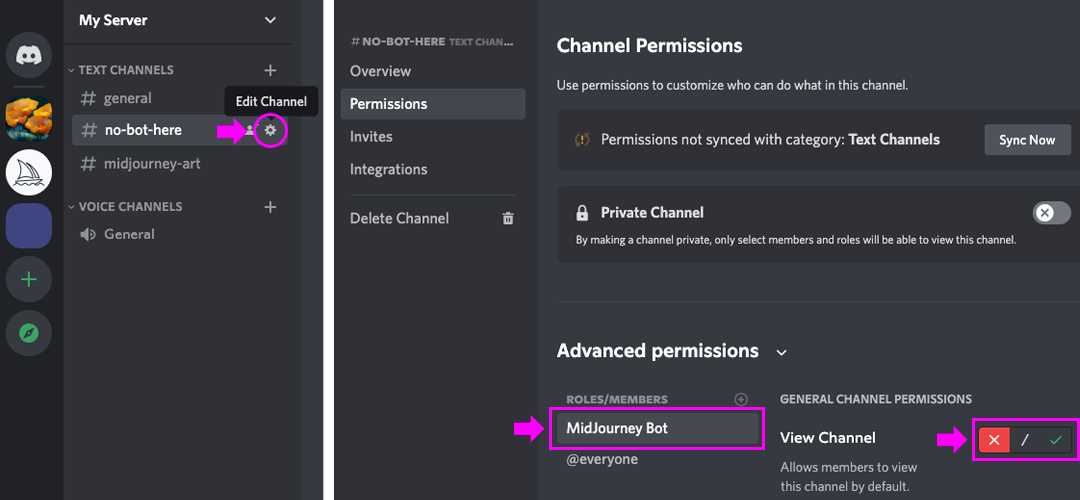
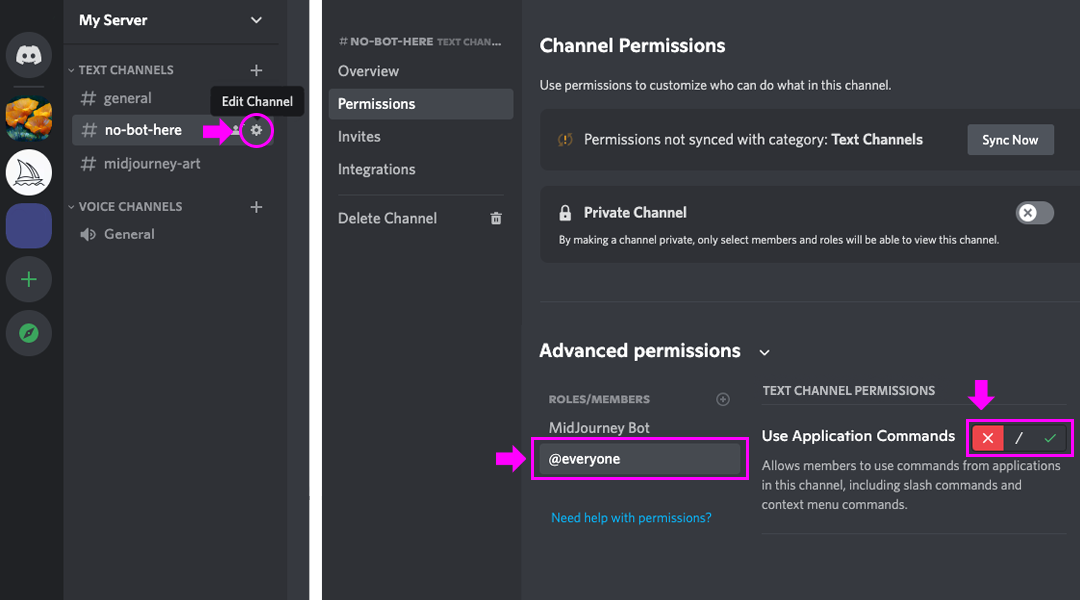
GitBook: [#53] Added additional images to "multi server" page requested by Red, simplified getting started page.

diff --git a/README.md b/README.md
@@ -4,23 +4,6 @@ Midjourney is an independent research lab exploring new mediums of thought and e
 
 There are two ways to experience the tools: the Discord server ([https://discord.gg/midjourney](https://discord.gg/midjourney)), where you will generate images, and the web app at [https://www.midjourney.com/](https://www.midjourney.com/app/), where you can find a gallery of your own work and other users' creations.
 
-1. The Discord server at&#x20;
-2. The web app at&#x20;
-
-Table of Contents:
-
-* [Code of Conduct](./#code-of-conduct)
-* [Create your First Image](./#create-your-first-image)
-  * [1. Select one of the `#newbies` channels from the sidebar](./#1.-select-one-of-the-newbies-channels-from-the-sidebar)
-  * [2. Use the /imagine Command](./#2.-use-the-imagine-command)
-  * [3. Wait as the MidJourney Bot Processes Your Request](./#3.-wait-as-the-midjourney-bot-processes-your-request)
-  * [4. Upscale your Image or Create Variations](./#4.-upscale-your-image-or-create-variations)&#x20;
-  * [5. Save Your Image](./#5.-save-your-image)
-  * [6. Send Results to Your DMs (Direct Messages)](./#6.-send-results-to-your-dms-direct-messages)
-  * [7. Become a Paid Subscriber if you Want to Generate More](./#7.-become-a-paid-subscriber-if-you-want-to-generate-more)
-  * [8. As a Subscriber, DM the Bot If You Want Less Noise Around](./#8.-as-a-subscriber-dm-the-bot-if-you-want-less-noise-around)
-* [Any Questions?](./#any-questions)
-
 ## Code of Conduct
 
 * Don't be a jerk.
@@ -43,7 +26,7 @@ Once you have joined the Discord server you will be able to create a limited num
 
 ### 2. Use the /imagine Command
 
-To use the MidJourney Bot, use a [Discord Slash Command](https://support.discord.com/hc/en-us/articles/1500000368501-Slash-Commands-FAQ) in a Bot channel, like #newbies-1. Start typing `/imagine` and you will notice something pop up above your text.&#x20;
+To use the Midjourney Bot, use a [Discord Slash Command](https://support.discord.com/hc/en-us/articles/1500000368501-Slash-Commands-FAQ) in a Bot channel, like #newbies-1. Start typing `/imagine` and you will notice something pop up above your text.&#x20;
 
 **Click or tap on the `/imagine` option**: the `prompt` field will be created and now you can add whatever you want the bot to generate, as you can see in the video below. Make sure to respect our [Content and Moderation policy](content-and-moderation-policy.md): keep it PG-13 and avoid upsetting imagery.
 
@@ -51,13 +34,13 @@ To use the MidJourney Bot, use a [Discord Slash Command](https://support.discord
 
 You can also try to press the Spacebar, Tab, or Enter to create the `prompt` field. Bot slash commands will only work in Bot channels. Typing `/imagine` will not work in regular channels, such as `#trial-support`.
 
-Once you're satisfied with the prompt you just wrote, press Enter or send your message. That will deliver your request to the MidJourney Bot, which will soon start generating your images.
+Once you're satisfied with the prompt you just wrote, press Enter or send your message. That will deliver your request to the Midjourney Bot, which will soon start generating your images.
 
-### 3. Wait as the MidJourney Bot Processes Your Request
+### 3. Wait as the Midjourney Bot Processes Your Request
 
 Requests take a minute to generate four options based on your prompt.
 
-![What you see while MidJourney generates your prompt](https://user-images.githubusercontent.com/105028755/167756032-0059cb74-d437-4747-8778-902c03403be6.gif)
+![What you see while Midjourney generates your prompt](https://user-images.githubusercontent.com/105028755/167756032-0059cb74-d437-4747-8778-902c03403be6.gif)
 
 ### 4. Upscale Your Image or Create Variations
 
@@ -90,31 +73,29 @@ Your upscaled image (and 2x2 grid images) will immediately be visible on your we
 
 ### 6. Send Results to Your DMs (Direct Messages)
 
-You can ask the MidJourney Bot to send you a Discord direct message containing your final results. To do so, react with the envelope emoji (:envelope:) to one of the bot's messages that contains a finished generation. This works with both single upscaled images and 2x2 grids, as shown below.
+You can ask the Midjourney Bot to send you a Discord direct message containing your final results. To do so, react with the envelope emoji (:envelope:) to one of the bot's messages that contains a finished generation. This works with both single upscaled images and 2x2 grids, as shown below.
 
 ![Here we add the  emoji to the generation we want to receive as a Direct Message](https://user-images.githubusercontent.com/105028755/168405903-4a039b6e-230b-4ff6-bbba-d9f732c7fb86.gif)
 
 ### 7. Become a Paid Subscriber if you Want to Generate More
 
-Your 25 free jobs do not presently expire but will also not renew. Once you have used all of them, you can use `/subscribe` in any bot channel to purchase a membership. Follow the link MidJourney generates to go to your subscription page.
+Your 25 free jobs do not presently expire but will also not renew. Once you have used all of them, you can use `/subscribe` in any bot channel to purchase a membership. Follow the link Midjourney generates to go to your subscription page.
 
 For prices and more information, you can visit [Billing and Licensing](billing.md).
 
-### 8. As a Subscriber, DM the Bot If You Want Less Noise Around
+### 8. As a Subscriber, Direct Message the Bot to work one-on-one with the Bot.
 
-If you are a paid subscriber, you can also use [the bot in your Direct Messages](FAQs.md#dming-the-bot-direct-messaging) instead of in a public bot channel. This will still be subject to content rules and generate images that will be visible in your gallery on the website.&#x20;
+If you are a paid subscriber, you can use [the bot in your Direct Messages](FAQs.md#dming-the-bot-direct-messaging) instead of public channel with other people. Images made within your direct messages are still be subject to content and moderation rules and will be visible on your midjourney website gallery.&#x20;
 
-## Any Questions?
+## Questions?
 
-If you still have questions or doubts, these pages can also be helpful:
+If you still have questions, these pages can also be helpful:
 
-* [The User Manual](user-manual.md), to learn how to unlock MidJourney's full potential.
+* [The User Manual](user-manual.md), for a full list of Midjourney features and commands.
 * [Resource Links](resource-links/), for tips, tricks, and experiments by our community of creatives.
-* [Copyright and Trademark](https://midjourney.gitbook.io/docs/terms-of-service#4.-copyright-and-trademark), to see what you are allowed to do with the images you generate. If you're a paid subscriber, they may be yours to do as you please, even commercially.
 
 Don't forget about our Discord server:
 
 * The `#rules` and `#faq` channels contain more information about our services.
 * In `#announcements` and `#status` you will find all important updates and news.
-* `#micro-polls` is where we ask about your preferences and experiences with our tools.
-* Still need help? Ask your question in either `#trial-support` or `#member-support`.&#x20;
+* Have additional questions? Visit `#trial-support` or `#member-support`.&#x20;

diff --git a/use-midjourney-on-your-own-discord-server.md b/use-midjourney-on-your-own-discord-server.md
@@ -9,8 +9,13 @@ description: How to invite and use the Midjourney bot on other servers.
 
 ## Invite the Midjourney Bot <a href="#step5" id="step5"></a>
 
-1. Select the Midjourney Bot, and then click "Add to Server": ![](.gitbook/assets/image.png)
-2. Select the server you want to add it to, then follow the directions in discord.&#x20;
+1. Select the **Midjourney Bo**t from the **User List**, and then click **"Add to Server"**:&#x20;
+
+![](.gitbook/assets/MJ\_BotInvite.png)
+
+
+
+1. Select the server you want to add it to, then follow the directions in discord.
 
 ![Authorize and confirm you are adding an external application.](.gitbook/assets/MJ\_AuthorizeBot.png)
 
@@ -18,10 +23,9 @@ If you don't see your server listed, follow the instructions in [#step5-1](use-m
 
 ## Use the Midjourney Bot
 
-Once the Midjourney Bot has joined your server you can begin interacting with it using the `/imagine` command.&#x20;
+Once the Midjourney Bot has joined your server you can begin interacting with it using the `/imagine` command.
 
-If this is your first time using Midjourney, refer to othe [Quick Start Guide](./) for help making your first images.\
-
+If this is your first time using Midjourney, refer to othe [Quick Start Guide](./) for help making your first images.
 
 ## Notes
 
@@ -39,15 +43,33 @@ To use the Midjourney Bot in any server users must have an active Midjourney tri
 
 ## Restrict the Bot to Specific Channels
 
-If you do not want the Midjourney Bot to be usable in specific channels go to **Edit Channel**, select the **Permissions tab**, select **@everyone** under **Roles/Members** and ** **_**Uncheck**_** "Use Application Commands".**
+If you do not want the Midjourney Bot to be usable in specific channels go to **Edit Channel**, select the **Permissions tab**, select **@everyone** under **Roles/Members** and  **\_Uncheck\_ "Use Application Commands"**.
 
-\
 Users who try to use the Midjourney Bot in a channel with these permissions disabled will not see the command
+
+![](.gitbook/assets/MJ\_RestrictChannel.png)
+
+
+
+For more granular control go to **Settings**, select **Integrations**, select the **Permissions tab**, select the **+ for the Midjourney Bot**, and select **Manage Integration.** \
+****\
+****/Command permissions can then be set for individual roles and channels.
+
+![](.gitbook/assets/MJ\_Integrations.png) ![](.gitbook/assets/image.png)
+
+****\
+**Get Midjourney Bot Status Updates and Announcements on Your Own Server**
+--------------------------------------------------------------------------
+
+Follow the **`#announcements`** and **`#status`** on your own server to stay up-to-date with Midjourney.
+
+![](.gitbook/assets/MJ\_StatusFollow.png)
 
 ## Create an Administrator Role <a href="#step5" id="step5"></a>
 
-**Only individuals with the "Manage server" permissions can add the Midjourney Bot to that server. If you do not see your server in the list, make sure you have this permission.**\
-****
+**Only individuals with the "Manage server" permissions can add the Midjourney Bot to that server. If you do not see your server in the list, make sure you have this permission.**\\
+
+***
 
 1. From your Discord Server's home page select the **Roles** tab in the **Server Settings** menu.
 

diff --git a/resource-links/understanding-image-size.md b/resource-links/understanding-image-size.md
@@ -93,7 +93,7 @@ An upscaled default square image at 1664x1664 has 2,768,896 pixels. Let's round 
 
 the --w and --h (width and height) modifiers only affect the initial 2x2 grid.  Adding --w 448 will make the initial 2x2 grid produce individual grid images are 448 pixels wide
 
-![/imagine sailboat --w 448  produces a 896 x 512 begining grid.](<../.gitbook/assets/image (29).png>)
+![/imagine sailboat --w 448  produces a 896 x 512 begining grid.](<../.gitbook/assets/image (1) (1) (1).png>)
 
 When you upscale one of these images it will no longer be 448 pixels wide, but it will maintain the original aspect ratio of your 2x2 grid.
 
@@ -119,7 +119,7 @@ If you have two bricks (pixels) that are very similar in color and try to double
 
 The issue with upscaling an image happens when lots of guesses have to be made about what new information is added (you want an image 4 or 6 times larger than the original). Recent AI advancements in upscale technology are really good, but the more guesses you ask the program to make the more errors will be made and the worse the result. &#x20;
 
-![Harder to guess what color should be inserted](<../.gitbook/assets/MJ\_Upscales (2).jpg>)
+![Harder to guess what color should be inserted](<../.gitbook/assets/MJ\_Upscales (1) (1) (1).jpg>)
 
 
 

diff --git a/imagine-parameters.md b/imagine-parameters.md
@@ -39,7 +39,7 @@ Parameters options that change how the images generate. A full `/imagine` comman
 
 Try `--ar 16:9` for example, to get a 9:16 aspect ratio (\~256x448).
 
-![](<.gitbook/assets/mj--ar (1).png>)`prompt`**`vibrant california poppies --ar 9:16`**
+![](.gitbook/assets/mj--ar.png)`prompt`**`vibrant california poppies --ar 9:16`**
 
 Also see [Understanding Image Sizes](resource-links/understanding-image-size.md).
 
@@ -107,7 +107,7 @@ Shortcut equivalences:
 
 `--no` Negative prompting (e.g., `--no plants` would try to remove plants). This is like giving it a weight of -0.5.
 
-![](.gitbook/assets/mj--no.png) prompt: \*\*`vibrant california poppies --no grass` \*\*
+![](<.gitbook/assets/mj--no (1).png>) prompt: \*\*`vibrant california poppies --no grass` \*\*
 
 ### Detail Modifiers
 
@@ -163,7 +163,7 @@ See the [User Manual](user-manual.md#stylize-values) for more detailed informati
 \`\`![](.gitbook/assets/MJ--s2500.png)
 
 `--s 2500` The default style level.\
-`--s 2500` corresponds to the <img src=".gitbook/assets/MJ_v1_StyleMed.png" alt="" data-size="line"> button in `/settings.`
+`--s 2500` corresponds to the <img src=".gitbook/assets/MJ_v1_StyleMed (1).png" alt="" data-size="line"> button in `/settings.`
 
 `![](.gitbook/assets/mj--5000.png)`
 
